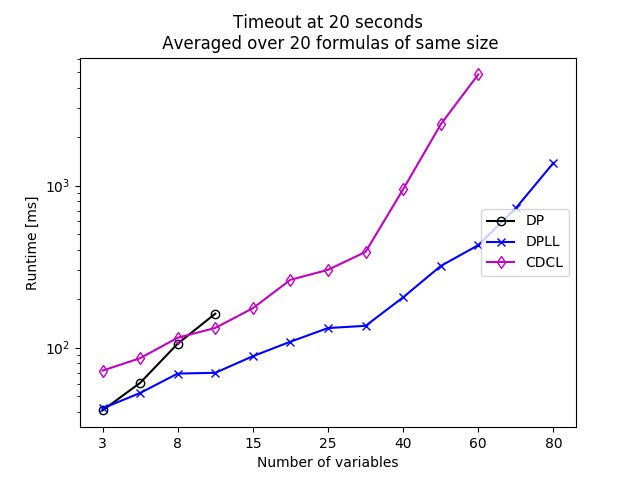
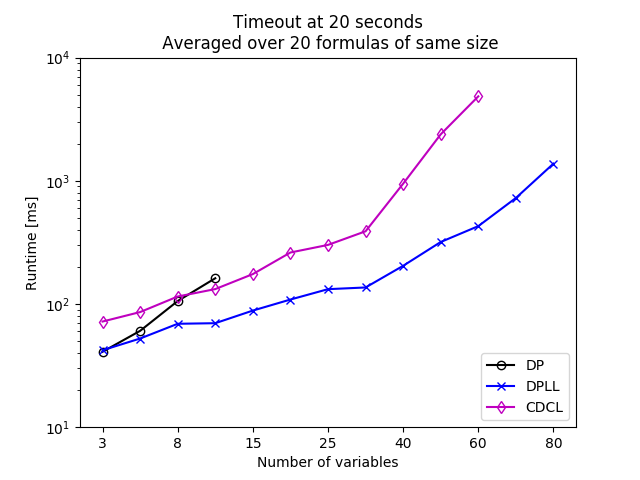
moved legend to lower right on all graphs

diff --git a/SatSolverProject/EvaluationGraphScript.py b/SatSolverProject/EvaluationGraphScript.py
@@ -4,7 +4,7 @@ import re
 
 inputFile = open('3sat/evaluations_sorted.txt')
 AGGREGATE_N = 10
-FILTER_STR = "_unsat"
+FILTER_STR = ""
 VARIABLES_USED = [3,5,8,10,15,20,25,30,40,50,60,70,80,90,100,120]
 # VARIABLES_USED = [3,5,8,10,15,20,25,30,40,50]
 
@@ -88,7 +88,7 @@ if AGGREGATE_N > 1:
                  " formulas of same size"
 ax.set_title(titleText)
 
-legend = ax.legend(loc='right')
+legend = ax.legend(loc='lower right')
 plt.ylabel("Runtime [ms]")
 plt.xlabel("Number of variables")
 
